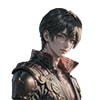
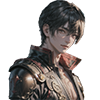
Add new UI enchancements

diff --git a/src/main/resources/style/style.css b/src/main/resources/style/style.css
@@ -1,0 +1,20 @@
+/* For the dialog box window */
+.dialogLabel{
+    -fx-border-radius: 20 20 20 20;
+    -fx-background-radius: 20 20 20 20;
+    -fx-background-color: #2c242a;
+    -fx-background-padding: 100 200 0 0;
+    -fx-padding: 15 25 15 25;
+    -fx-background-insets: 0 0 0 0;
+    -fx-text-fill: white;
+    -fx-effect: dropshadow(three-pass-box, rgba(45,36,42,0.8), 10, 0, 0, 0);
+    /* top-left, top-right, bottom-right, and bottom-left corners, in that order. */
+    /*Padding are in the order of top right bottom and left for java fx */
+ }
+ .image{
+    -fx-effect: dropshadow(three-pass-box, rgba(45,36,42,0.8), 10, 0, 0, 0);
+ }
+/* For the main screen*/
+ .mainWindow{
+    -fx-background-color: #68abc4;
+ }

diff --git a/src/main/java/duke/ui/DialogBox.java b/src/main/java/duke/ui/DialogBox.java
@@ -10,10 +10,14 @@ import javafx.fxml.FXMLLoader;
 import javafx.geometry.Insets;
 import javafx.geometry.Pos;
 import javafx.scene.Node;
+import javafx.scene.SnapshotParameters;
 import javafx.scene.control.Label;
 import javafx.scene.image.Image;
 import javafx.scene.image.ImageView;
+import javafx.scene.image.WritableImage;
 import javafx.scene.layout.HBox;
+import javafx.scene.paint.Color;
+import javafx.scene.shape.Rectangle;
 
 /**
  * Controller for the dialog box that contains the chat UI.
@@ -36,6 +40,21 @@ public class DialogBox extends HBox {
         dialog.setText(text);
         dialog.setPadding(new Insets(0, 20, 0, 0));
         displayPicture.setImage(img);
+        //Custom clipped borders inspired from:
+        // https://stackoverflow.com/questions/20489908/border-radius-and-shadow-on-imageview
+        Rectangle clip = new Rectangle(displayPicture.getFitWidth(), displayPicture.getFitHeight());
+        clip.setArcWidth(200);
+        clip.setArcHeight(200);
+        displayPicture.setClip(clip);
+
+        // snapshot the rounded image.
+        SnapshotParameters parameters = new SnapshotParameters();
+        parameters.setFill(Color.TRANSPARENT);
+        WritableImage image = displayPicture.snapshot(parameters, null);
+
+        // remove the rounding clip so that our effect can show through.
+        displayPicture.setClip(null);
+        displayPicture.setImage(image);
     }
 
     public static DialogBox getUserDialog(String text, Image img) {
